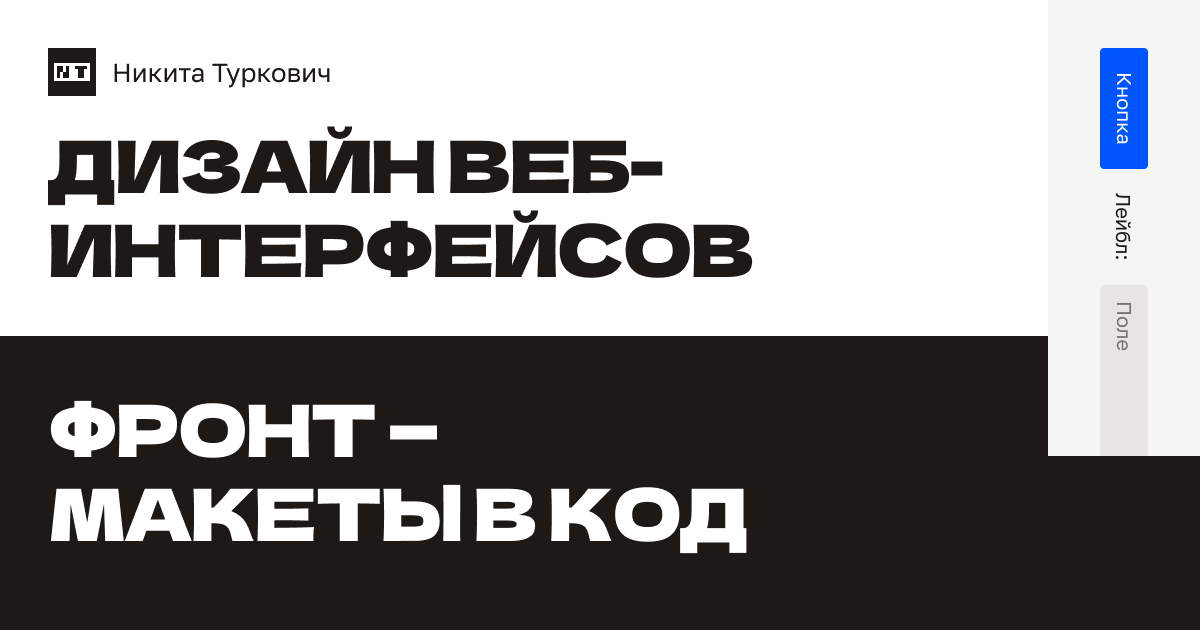
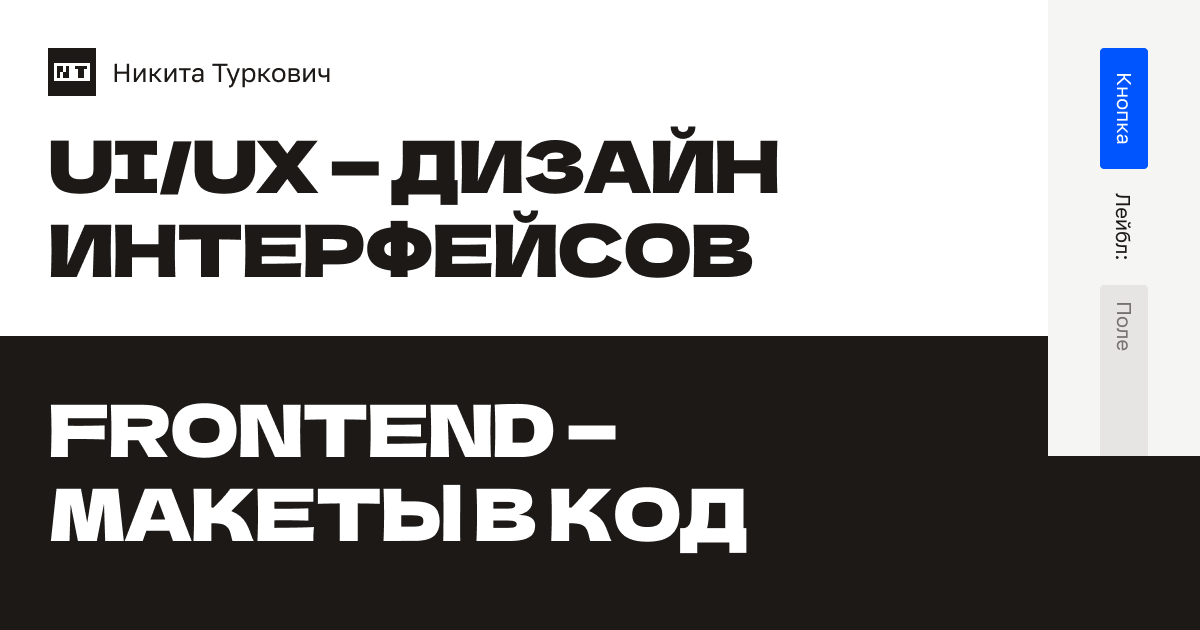
Auto-generated commit

Changed region(s): [[0.0308, 0.181, 0.6475, 0.3317], [0.0308, 0.6333, 0.5242, 0.7238]]

diff --git a/main-I3H5BV4K.js b/main-I3H5BV4K.js
@@ -11,4 +11,4 @@ ${n.map((r,o)=>`${o+1}) ${r.toString()}`).join(`
 `],encapsulation:2,changeDetection:1})};function dD(e,t){if(e&1&&(S(0,"label",3),R(1),C()),e&2){let n=sn();se(),Ke(n.label())}}var Ts=class e{label=q();checked=q();static \u0275fac=function(n){return new(n||e)};static \u0275cmp=V({type:e,selectors:[["nt-radiobuton"]],hostAttrs:[1,"radio"],inputs:{label:[1,"label"],checked:[1,"checked"]},decls:4,vars:2,consts:[["type","radio","id","radio",1,"radio__control",3,"checked"],["width","24","height","24","viewBox","0 0 24 24","fill","none","xmlns","http://www.w3.org/2000/svg",1,"radio__icon"],["cx","12","cy","12","r","4"],["ntLabel","","for","radio",1,"radio__label"]],template:function(n,r){n&1&&($(0,"input",0),Ze(),S(1,"svg",1),$(2,"circle",2),C(),rn(3,dD,2,1,"label",3)),n&2&&(Ae("checked",r.checked()),se(3),on(r.label()?3:-1))},dependencies:[Le],styles:[`.radio{display:inline-flex;gap:.5rem;cursor:pointer}.radio__control{appearance:none;display:inline-flex;width:1.5rem;height:1.5rem;background-color:var(--%NS%color-switch-bg-default);margin:0;border:none;border-radius:100%;transition:.2s ease-in-out;cursor:pointer}.radio__control:hover{box-shadow:0 2px 0 inset var(--%NS%color-switch-shadow-default)}.radio__control:checked{background-color:var(--%NS%color-switch-bg-checked-default)}.radio__control:checked:hover{background-color:var(--%NS%color-switch-bg-checked-hover);box-shadow:0 2px 0 inset var(--%NS%color-switch-shadow-checked)}.radio__control:checked~.radio__icon{opacity:100%;fill:var(--%NS%color-switch-icon-checked)}.radio__icon{position:absolute;opacity:0;pointer-events:none}.radio__label{cursor:pointer}
 `],encapsulation:2,changeDetection:1})};var fD=["*"],_s=class e{static \u0275fac=function(n){return new(n||e)};static \u0275cmp=V({type:e,selectors:[["nt-tabs"]],hostAttrs:[1,"tabs"],ngContentSelectors:fD,decls:1,vars:0,template:function(n,r){n&1&&(Se(),Ce(0))},styles:[`.tabs{display:inline-flex;gap:.25rem;background-color:var(--%NS%color-tabs-bg);border-radius:.5rem;padding:.25rem}.tab{position:relative;display:inline-flex}.tab__control{appearance:none;position:absolute;width:100%;height:100%;margin:0;border-radius:.25rem;transition:.2s ease-in-out}.tab__control:hover:not(:checked){background-color:var(--%NS%color-tab-bg-hover);box-shadow:0 2px 0 var(--%NS%color-tab-shadow-selected)}.tab__control:checked{background-color:var(--%NS%color-tab-bg-selected)}.tab__control:active:not(:checked){transform:scale(.96)}.tab__label{position:relative;padding:.4375rem 1rem .5625rem;z-index:1;cursor:pointer}
 `],encapsulation:2,changeDetection:1})};var Ms=class e{label=q.required();tabId=q.required();name=q.required();checked=q();static \u0275fac=function(n){return new(n||e)};static \u0275cmp=V({type:e,selectors:[["nt-tab"]],hostAttrs:[1,"tab"],inputs:{label:[1,"label"],tabId:[1,"tabId"],name:[1,"name"],checked:[1,"checked"]},decls:3,vars:5,consts:[["type","radio",1,"tab__control",3,"name","id","checked"],["ntLabel","",1,"tab__label"]],template:function(n,r){n&1&&($(0,"input",0),S(1,"label",1),R(2),C()),n&2&&(Ae("name",r.name())("id",r.tabId())("checked",r.checked()),se(),Fi("for",r.tabId()),se(),Ke(r.label()))},dependencies:[Le],styles:[`.tabs{display:inline-flex;gap:.25rem;background-color:var(--%NS%color-tabs-bg);border-radius:.5rem;padding:.25rem}.tab{position:relative;display:inline-flex}.tab__control{appearance:none;position:absolute;width:100%;height:100%;margin:0;border-radius:.25rem;transition:.2s ease-in-out}.tab__control:hover:not(:checked){background-color:var(--%NS%color-tab-bg-hover);box-shadow:0 2px 0 var(--%NS%color-tab-shadow-selected)}.tab__control:checked{background-color:var(--%NS%color-tab-bg-selected)}.tab__control:active:not(:checked){transform:scale(.96)}.tab__label{position:relative;padding:.4375rem 1rem .5625rem;z-index:1;cursor:pointer}
-`],encapsulation:2,changeDetection:1})};var Ns=class e{static \u0275fac=function(n){return new(n||e)};static \u0275cmp=V({type:e,selectors:[["app-root"]],decls:87,vars:3,consts:[[1,"layout","layout_design"],[1,"header"],[1,"logo"],["src","/logo.svg","alt","\u0422\u0443\u0440\u043A\u043E\u0432\u0438\u0447 \u041D\u0438\u043A\u0438\u0442\u0430"],[1,"decor"],[1,"hero"],[1,"title"],[1,"description"],[1,"tags-list"],["theme","design"],[1,"footer"],[1,"footer__contacts"],["ntLink","","target","_blank","href","https://t.me/nikita_turkovich","rel","noopener"],["ntLink","","target","_blank","href","https://mailto:nikita.turkovich@ya.ru","rel","noopener"],[1,"footer__status"],[1,"bage","bage_open"],[1,"design-system"],[1,"design-system__container"],[1,"design-system__components"],["type","button","ntButton","","priority","primary"],["ntLabel","","for","field-0"],["type","text","ntInput","","placeholder","\u041F\u043E\u043B\u0435","id","field-0"],["type","button","ntButton","","icon","","priority","secondary"],["width","24","height","24","viewBox","0 0 24 24","fill","none","xmlns","http://www.w3.org/2000/svg"],["d","M22 9.03419C21.9999 7.27787 21.4037 6.05068 20.585 5.25587C19.7534 4.44871 18.6286 4.02556 17.4814 4.00392C16.3323 3.9823 15.2104 4.3652 14.3867 5.10451C13.5797 5.82902 13.0001 6.94741 13 8.53419H11C10.9999 6.94491 10.4202 5.82533 9.61328 5.1006C8.78986 4.36117 7.66835 3.97901 6.51953 4.00099C5.37242 4.02302 4.24683 4.4469 3.41504 5.2549C2.5962 6.05045 2.00007 7.27804 2 9.03419C2 10.2418 2.56169 11.603 3.54297 13.0303C4.51406 14.4428 5.82814 15.8225 7.17285 17.0449C8.51295 18.2632 9.85741 19.3023 10.8691 20.0381C11.3258 20.3702 11.7138 20.6385 12 20.833C12.2862 20.6385 12.6742 20.3702 13.1309 20.0381C14.1426 19.3023 15.4871 18.2632 16.8271 17.0449C18.1719 15.8225 19.4859 14.4428 20.457 13.0303C21.4383 11.603 22 10.2418 22 9.03419ZM24 9.03419C24 10.8264 23.1865 12.5905 22.1055 14.1631C21.0141 15.7506 19.5781 17.2469 18.1729 18.5244C16.7632 19.806 15.3573 20.8912 14.3066 21.6553C13.7805 22.038 13.3413 22.342 13.0322 22.5508C12.8777 22.6552 12.7552 22.7358 12.6709 22.791C12.6288 22.8186 12.5958 22.8399 12.5732 22.8545C12.5623 22.8615 12.5539 22.8672 12.5479 22.8711C12.5448 22.8731 12.5418 22.8749 12.54 22.876L12.5381 22.877L12.5371 22.8779L12 23.2197L11.4629 22.8779C11.4624 22.8776 11.4608 22.8765 11.46 22.876C11.4582 22.8749 11.4552 22.8731 11.4521 22.8711C11.4461 22.8672 11.4377 22.8615 11.4268 22.8545C11.4042 22.8399 11.3712 22.8186 11.3291 22.791C11.2448 22.7358 11.1223 22.6552 10.9678 22.5508C10.6587 22.342 10.2195 22.038 9.69336 21.6553C8.64269 20.8912 7.23683 19.806 5.82715 18.5244C4.4219 17.2469 2.98591 15.7506 1.89453 14.1631C0.813462 12.5905 0 10.8264 0 9.03419C7.16977e-05 6.79084 0.77904 5.02818 2.02246 3.82033C3.25306 2.62506 4.87779 2.03184 6.48047 2.00099C8.0815 1.97025 9.71023 2.49975 10.9492 3.61232C11.3503 3.97252 11.7038 4.38895 12 4.85744C12.296 4.39001 12.6502 3.97478 13.0508 3.61525C14.2895 2.50345 15.9178 1.97484 17.5186 2.0049C19.1213 2.03505 20.7467 2.62649 21.9775 3.8213C23.2212 5.02857 23.9999 6.79083 24 9.03419Z"],["label","\u0427\u0435\u043A\u0431\u043E\u043A\u0441",3,"checked"],["tabId","tab-1","name","group-1","label","\u0412\u043A\u043B\u0430\u0434\u043A\u0430",3,"checked"],["tabId","tab-2","name","group-1","label","\u0412\u043A\u043B\u0430\u0434\u043A\u0430"],["label","\u0420\u0430\u0434\u0438\u043E\u043A\u043D\u043E\u043F\u043A\u0430",3,"checked"],[1,"layout","layout_development"],["theme","code"],[1,"footer__source"],["ntLink","","target","_blank","href","https://github.com/turkovich/turkovich.github.io","rel","noopener"]],template:function(n,r){n&1&&(S(0,"div",0)(1,"header",1)(2,"div",2),$(3,"img",3),R(4," \u041D\u0438\u043A\u0438\u0442\u0430 \u0422\u0443\u0440\u043A\u043E\u0432\u0438\u0447 "),C()(),$(5,"div",4),S(6,"div",5)(7,"h1",6),R(8,"\u0414\u0438\u0437\u0430\u0439\u043D \u0432\u0435\u0431-\u0438\u043D\u0442\u0435\u0440\u0444\u0435\u0439\u0441\u043E\u0432"),C()(),S(9,"div",7)(10,"ul",8)(11,"li")(12,"nt-tag",9),R(13,"20 \u043B\u0435\u0442 \u0432 \u043E\u0442\u0440\u0430\u0441\u043B\u0438"),C()(),S(14,"li")(15,"nt-tag",9),R(16,"B2B/B2C"),C()(),S(17,"li")(18,"nt-tag",9),R(19,"SaaS"),C()(),S(20,"li")(21,"nt-tag",9),R(22,"Web"),C()()(),S(23,"p"),R(24," \u041F\u0440\u043E\u0435\u043A\u0442\u0438\u0440\u0443\u044E \u0438\u043D\u0442\u0435\u0440\u0444\u0435\u0439\u0441\u044B \u0438 \u0434\u0438\u0437\u0430\u0439\u043D-\u0441\u0438\u0441\u0442\u0435\u043C\u044B, \u0437\u0430\u0434\u0430\u044E \u0432\u0438\u0437\u0443\u0430\u043B\u044C\u043D\u044B\u0439 \u0441\u0442\u0438\u043B\u044C, \u043F\u043E\u0434\u0431\u0438\u0440\u0430\u044E \u043F\u0430\u0442\u0442\u0435\u0440\u043D\u044B \u0432\u0437\u0430\u0438\u043C\u043E\u0434\u0435\u0439\u0441\u0442\u0432\u0438\u044F, \u0441\u043E\u0437\u0434\u0430\u044E \u043A\u0430\u0441\u0442\u043E\u043C\u043D\u0443\u044E \u0438\u043A\u043E\u043D\u043E\u0433\u0440\u0430\u0444\u0438\u043A\u0443. "),C()(),S(25,"footer",10)(26,"ul",11)(27,"li")(28,"a",12),R(29,"t.me/nikita_turkovich"),C()(),S(30,"li")(31,"a",13),R(32,"nikita.turkovich@ya.ru"),C()()(),S(33,"div",14),$(34,"i",15),R(35," \u0420\u0430\u0441\u0441\u043C\u0430\u0442\u0440\u0438\u0432\u0430\u044E \u043F\u0440\u0435\u0434\u043B\u043E\u0436\u0435\u043D\u0438\u044F "),C()(),S(36,"div",16)(37,"div",17)(38,"div",18)(39,"button",19),R(40,"\u041A\u043D\u043E\u043F\u043A\u0430"),C(),S(41,"label",20),R(42,"\u041B\u0435\u0439\u0431\u043B:"),C(),$(43,"input",21),S(44,"button",22),Ze(),S(45,"svg",23),$(46,"path",24),C()(),li(),$(47,"nt-switch")(48,"nt-checkbox",25),S(49,"nt-tabs"),$(50,"nt-tab",26)(51,"nt-tab",27),C(),$(52,"nt-radiobuton",28),C()()()(),S(53,"div",29)(54,"div",7)(55,"ul",8)(56,"li")(57,"nt-tag",30),R(58,"Design tokens"),C()(),S(59,"li")(60,"nt-tag",30),R(61,"SCSS"),C()(),S(62,"li")(63,"nt-tag",30),R(64,"BEM"),C()(),S(65,"li")(66,"nt-tag",30),R(67,"Responsive"),C()(),S(68,"li")(69,"nt-tag",30),R(70,"Angular-components"),C()(),S(71,"li")(72,"nt-tag",30),R(73,"Prime NG"),C()()(),S(74,"p"),R(75," \u041F\u0435\u0440\u0435\u043D\u043E\u0448\u0443 \u043C\u0430\u043A\u0435\u0442\u044B \u0432 \u043A\u043E\u0434. \u0421\u043E\u0437\u0434\u0430\u044E \u0438 \u0434\u043E\u0440\u0430\u0431\u0430\u0442\u044B\u0432\u0430\u044E Angular-\u043A\u043E\u043C\u043F\u043E\u043D\u0435\u043D\u0442\u044B \u043F\u043E\u0434 \u0435\u0434\u0438\u043D\u0443\u044E \u0434\u0438\u0437\u0430\u0439\u043D-\u0441\u0438\u0441\u0442\u0435\u043C\u0443. "),C()(),S(76,"div",5)(77,"h1",6),R(78,"\u0424\u0440\u043E\u043D\u0442 \u2014 \u041C\u0430\u043A\u0435\u0442\u044B\xA0\u0432\xA0\u043A\u043E\u0434"),C()(),S(79,"footer",10)(80,"div",31)(81,"a",32),R(82,"turkovich.github.io"),C()(),S(83,"div",14),R(84," 2026 \u2014 \u043F\u0440\u043E\u0434\u043E\u043B\u0436\u0435\u043D\u0438\u0435\xA0\u0441\u043B\u0435\u0434\u0443\u0435\u0442... "),C()(),$(85,"div",4),C(),$(86,"router-outlet")),n&2&&(se(48),Ae("checked",!0),se(2),Ae("checked",!0),se(2),Ae("checked",!0))},dependencies:[uo,ws,Ds,Le,bs,Ss,Cs,Ts,_s,Is,Ms],encapsulation:2,changeDetection:1})};hl(Ns,Uh).catch(e=>console.error(e));
+`],encapsulation:2,changeDetection:1})};var Ns=class e{static \u0275fac=function(n){return new(n||e)};static \u0275cmp=V({type:e,selectors:[["app-root"]],decls:87,vars:3,consts:[[1,"layout","layout_design"],[1,"header"],[1,"logo"],["src","/logo.svg","alt","\u0422\u0443\u0440\u043A\u043E\u0432\u0438\u0447 \u041D\u0438\u043A\u0438\u0442\u0430"],[1,"decor"],[1,"hero"],[1,"title"],[1,"description"],[1,"tags-list"],["theme","design"],[1,"footer"],[1,"footer__contacts"],["ntLink","","target","_blank","href","https://t.me/nikita_turkovich","rel","noopener"],["ntLink","","target","_blank","href","https://mailto:nikita.turkovich@ya.ru","rel","noopener"],[1,"footer__status"],[1,"bage","bage_open"],[1,"design-system"],[1,"design-system__container"],[1,"design-system__components"],["type","button","ntButton","","priority","primary"],["ntLabel","","for","field-0"],["type","text","ntInput","","placeholder","\u041F\u043E\u043B\u0435","id","field-0"],["type","button","ntButton","","icon","","priority","secondary"],["width","24","height","24","viewBox","0 0 24 24","fill","none","xmlns","http://www.w3.org/2000/svg"],["d","M22 9.03419C21.9999 7.27787 21.4037 6.05068 20.585 5.25587C19.7534 4.44871 18.6286 4.02556 17.4814 4.00392C16.3323 3.9823 15.2104 4.3652 14.3867 5.10451C13.5797 5.82902 13.0001 6.94741 13 8.53419H11C10.9999 6.94491 10.4202 5.82533 9.61328 5.1006C8.78986 4.36117 7.66835 3.97901 6.51953 4.00099C5.37242 4.02302 4.24683 4.4469 3.41504 5.2549C2.5962 6.05045 2.00007 7.27804 2 9.03419C2 10.2418 2.56169 11.603 3.54297 13.0303C4.51406 14.4428 5.82814 15.8225 7.17285 17.0449C8.51295 18.2632 9.85741 19.3023 10.8691 20.0381C11.3258 20.3702 11.7138 20.6385 12 20.833C12.2862 20.6385 12.6742 20.3702 13.1309 20.0381C14.1426 19.3023 15.4871 18.2632 16.8271 17.0449C18.1719 15.8225 19.4859 14.4428 20.457 13.0303C21.4383 11.603 22 10.2418 22 9.03419ZM24 9.03419C24 10.8264 23.1865 12.5905 22.1055 14.1631C21.0141 15.7506 19.5781 17.2469 18.1729 18.5244C16.7632 19.806 15.3573 20.8912 14.3066 21.6553C13.7805 22.038 13.3413 22.342 13.0322 22.5508C12.8777 22.6552 12.7552 22.7358 12.6709 22.791C12.6288 22.8186 12.5958 22.8399 12.5732 22.8545C12.5623 22.8615 12.5539 22.8672 12.5479 22.8711C12.5448 22.8731 12.5418 22.8749 12.54 22.876L12.5381 22.877L12.5371 22.8779L12 23.2197L11.4629 22.8779C11.4624 22.8776 11.4608 22.8765 11.46 22.876C11.4582 22.8749 11.4552 22.8731 11.4521 22.8711C11.4461 22.8672 11.4377 22.8615 11.4268 22.8545C11.4042 22.8399 11.3712 22.8186 11.3291 22.791C11.2448 22.7358 11.1223 22.6552 10.9678 22.5508C10.6587 22.342 10.2195 22.038 9.69336 21.6553C8.64269 20.8912 7.23683 19.806 5.82715 18.5244C4.4219 17.2469 2.98591 15.7506 1.89453 14.1631C0.813462 12.5905 0 10.8264 0 9.03419C7.16977e-05 6.79084 0.77904 5.02818 2.02246 3.82033C3.25306 2.62506 4.87779 2.03184 6.48047 2.00099C8.0815 1.97025 9.71023 2.49975 10.9492 3.61232C11.3503 3.97252 11.7038 4.38895 12 4.85744C12.296 4.39001 12.6502 3.97478 13.0508 3.61525C14.2895 2.50345 15.9178 1.97484 17.5186 2.0049C19.1213 2.03505 20.7467 2.62649 21.9775 3.8213C23.2212 5.02857 23.9999 6.79083 24 9.03419Z"],["label","\u0427\u0435\u043A\u0431\u043E\u043A\u0441",3,"checked"],["tabId","tab-1","name","group-1","label","\u0412\u043A\u043B\u0430\u0434\u043A\u0430",3,"checked"],["tabId","tab-2","name","group-1","label","\u0412\u043A\u043B\u0430\u0434\u043A\u0430"],["label","\u0420\u0430\u0434\u0438\u043E\u043A\u043D\u043E\u043F\u043A\u0430",3,"checked"],[1,"layout","layout_development"],["theme","code"],[1,"footer__source"],["ntLink","","target","_blank","href","https://github.com/turkovich/turkovich.github.io","rel","noopener"]],template:function(n,r){n&1&&(S(0,"div",0)(1,"header",1)(2,"div",2),$(3,"img",3),R(4," \u041D\u0438\u043A\u0438\u0442\u0430 \u0422\u0443\u0440\u043A\u043E\u0432\u0438\u0447 "),C()(),$(5,"div",4),S(6,"div",5)(7,"h1",6),R(8,"UI/UX \u2014 \u0434\u0438\u0437\u0430\u0439\u043D \u0438\u043D\u0442\u0435\u0440\u0444\u0435\u0439\u0441\u043E\u0432"),C()(),S(9,"div",7)(10,"ul",8)(11,"li")(12,"nt-tag",9),R(13,"20 \u043B\u0435\u0442 \u0432 \u043E\u0442\u0440\u0430\u0441\u043B\u0438"),C()(),S(14,"li")(15,"nt-tag",9),R(16,"B2B/B2C"),C()(),S(17,"li")(18,"nt-tag",9),R(19,"SaaS"),C()(),S(20,"li")(21,"nt-tag",9),R(22,"Web"),C()()(),S(23,"p"),R(24," \u041F\u0440\u043E\u0435\u043A\u0442\u0438\u0440\u0443\u044E \u0438\u043D\u0442\u0435\u0440\u0444\u0435\u0439\u0441\u044B \u0438 \u0434\u0438\u0437\u0430\u0439\u043D-\u0441\u0438\u0441\u0442\u0435\u043C\u044B, \u0437\u0430\u0434\u0430\u044E \u0432\u0438\u0437\u0443\u0430\u043B\u044C\u043D\u044B\u0439 \u0441\u0442\u0438\u043B\u044C, \u043F\u043E\u0434\u0431\u0438\u0440\u0430\u044E \u043F\u0430\u0442\u0442\u0435\u0440\u043D\u044B \u0432\u0437\u0430\u0438\u043C\u043E\u0434\u0435\u0439\u0441\u0442\u0432\u0438\u044F, \u0441\u043E\u0437\u0434\u0430\u044E \u043A\u0430\u0441\u0442\u043E\u043C\u043D\u0443\u044E \u0438\u043A\u043E\u043D\u043E\u0433\u0440\u0430\u0444\u0438\u043A\u0443. "),C()(),S(25,"footer",10)(26,"ul",11)(27,"li")(28,"a",12),R(29,"t.me/nikita_turkovich"),C()(),S(30,"li")(31,"a",13),R(32,"nikita.turkovich@ya.ru"),C()()(),S(33,"div",14),$(34,"i",15),R(35," \u0420\u0430\u0441\u0441\u043C\u0430\u0442\u0440\u0438\u0432\u0430\u044E \u043F\u0440\u0435\u0434\u043B\u043E\u0436\u0435\u043D\u0438\u044F "),C()(),S(36,"div",16)(37,"div",17)(38,"div",18)(39,"button",19),R(40,"\u041A\u043D\u043E\u043F\u043A\u0430"),C(),S(41,"label",20),R(42,"\u041B\u0435\u0439\u0431\u043B:"),C(),$(43,"input",21),S(44,"button",22),Ze(),S(45,"svg",23),$(46,"path",24),C()(),li(),$(47,"nt-switch")(48,"nt-checkbox",25),S(49,"nt-tabs"),$(50,"nt-tab",26)(51,"nt-tab",27),C(),$(52,"nt-radiobuton",28),C()()()(),S(53,"div",29)(54,"div",7)(55,"ul",8)(56,"li")(57,"nt-tag",30),R(58,"Design tokens"),C()(),S(59,"li")(60,"nt-tag",30),R(61,"SCSS"),C()(),S(62,"li")(63,"nt-tag",30),R(64,"BEM"),C()(),S(65,"li")(66,"nt-tag",30),R(67,"Responsive"),C()(),S(68,"li")(69,"nt-tag",30),R(70,"Angular-components"),C()(),S(71,"li")(72,"nt-tag",30),R(73,"Prime NG"),C()()(),S(74,"p"),R(75," \u041F\u0435\u0440\u0435\u043D\u043E\u0448\u0443 \u043C\u0430\u043A\u0435\u0442\u044B \u0432 \u043A\u043E\u0434. \u0421\u043E\u0437\u0434\u0430\u044E \u0438 \u0434\u043E\u0440\u0430\u0431\u0430\u0442\u044B\u0432\u0430\u044E Angular-\u043A\u043E\u043C\u043F\u043E\u043D\u0435\u043D\u0442\u044B \u043F\u043E\u0434 \u0435\u0434\u0438\u043D\u0443\u044E \u0434\u0438\u0437\u0430\u0439\u043D-\u0441\u0438\u0441\u0442\u0435\u043C\u0443. "),C()(),S(76,"div",5)(77,"h1",6),R(78,"Frontend \u2014 \u043C\u0430\u043A\u0435\u0442\u044B \u0432\xA0\u043A\u043E\u0434"),C()(),S(79,"footer",10)(80,"div",31)(81,"a",32),R(82,"turkovich.github.io"),C()(),S(83,"div",14),R(84," 2026 \u2014 \u043F\u0440\u043E\u0434\u043E\u043B\u0436\u0435\u043D\u0438\u0435\xA0\u0441\u043B\u0435\u0434\u0443\u0435\u0442... "),C()(),$(85,"div",4),C(),$(86,"router-outlet")),n&2&&(se(48),Ae("checked",!0),se(2),Ae("checked",!0),se(2),Ae("checked",!0))},dependencies:[uo,ws,Ds,Le,bs,Ss,Cs,Ts,_s,Is,Ms],encapsulation:2,changeDetection:1})};hl(Ns,Uh).catch(e=>console.error(e));

diff --git a/styles-O56A5YJO.css b/styles-O56A5YJO.css
@@ -1,0 +1,1 @@
+:root{--color-text-primary: #1C1917;--color-text-primary-inverted: #FFF;--color-text-secondary: #75726F;--color-text-secondary-inverted: #A6A3A0;--color-design-bg: #FFF;--color-code-bg: #1C1917;--color-case-bg: #44413C;--color-design-system-bg: #F5F5F4;--color-bage-open: #0055FF;--color-bage-busy: #9D2500;--color-tag-bg-design: #E7E5E4;--color-tag-bg-code: #44413C;--color-link-default: #4D88FF;--color-link-hover: #FFF;--color-button-primary-bg-default: #0055FF;--color-button-primary-bg-hover: #0055FF;--color-button-primary-text: #FFF;--color-button-primary-shadow: #002266;--color-button-secondary-bg-default: #E7E5E4;--color-button-secondary-bg-hover: #E7E5E4;--color-button-secondary-text: #1C1917;--color-button-secondary-shadow: #A6A3A0;--color-input-text: #1C1917;--color-input-placeholder: #75726F;--color-input-bg: #E7E5E4;--color-input-shadow: #A6A3A0;--color-switch-bg-default: #E7E5E4;--color-switch-bg-checked-default: #0055FF;--color-switch-bg-checked-hover: #0055FF;--color-switch-shadow-default: #A6A3A0;--color-switch-shadow-checked: #002266;--color-switch-icon-checked: #FFF;--color-knob-bg: #FFF;--color-knob-shadow-default: #A6A3A0;--color-knob-shadow-checked: #002266;--color-tabs-bg: #E7E5E4;--color-tab-bg-hover: #F5F5F4;--color-tab-bg-selected: #FFF;--color-tab-shadow-selected: #A6A3A0}@font-face{font-family:Golos Text;font-display:block;src:url(/fonts/GolosText-Regular.woff2) format("woff2");font-weight:400;font-style:normal}@font-face{font-family:Golos Text;font-display:block;src:url(/fonts/GolosText-Medium.woff2) format("woff2");font-weight:500;font-style:normal}@font-face{font-family:Dela Gothic One;font-display:block;src:url(/fonts/DelaGothicOne-Regular.woff2) format("woff2");font-weight:400;font-style:normal}*,:before,:after{box-sizing:border-box}p,ul,li{margin:0;padding:0}ul{list-style:none}html,body{width:100%;height:100%}body{margin:0;min-width:360px}.layout{position:relative;min-height:1200px;display:grid;grid-template-columns:repeat(6,1fr);grid-template-rows:repeat(8,1fr);gap:3rem;padding:3rem}@media(max-width:768px){.layout{min-height:auto;display:flex;flex-direction:column;gap:1.5rem;padding:1.5rem}}.layout_design{background-color:var(--color-design-bg)}.layout_design .header{grid-column:span 3;align-items:center}@media(max-width:768px){.layout_design .header{margin-bottom:3rem}}.layout_design .hero{display:flex;align-items:center;grid-column:span 5;grid-row:2/span 3}.layout_design .description{grid-column:2/span 4;grid-row:5/span 2}@media(max-width:1024px){.layout_design .description{grid-column:1/span 5}}@media(max-width:768px){.layout_design .description{margin-bottom:3rem}}.layout_design .footer{margin:-3rem;padding:3rem;background-color:var(--color-code-bg)}@media(max-width:768px){.layout_design .footer{flex-direction:column-reverse;margin:0 0 -1.5rem -1.5rem;padding:1.5rem}}.layout_design .decor{grid-column:4/span 3;grid-row:1;background-color:var(--color-design-system-bg);margin:-3rem -3rem -3rem 0}@media(max-width:1024px){.layout_design .decor{display:none}}@media(max-width:768px){.layout_design .decor{display:block;position:absolute;right:0;top:0;width:1.5rem;height:7.5rem;margin:0}}.layout_development{background-color:var(--color-code-bg)}.layout_development .description{grid-column:2/6;grid-row:2/4;color:var(--color-text-primary-inverted)}@media(max-width:1024px){.layout_development .description{grid-column:1/span 5}}@media(max-width:768px){.layout_development .description{margin-top:3rem}}.layout_development .hero{display:flex;align-items:center;grid-column:1/6;grid-row:4/7;color:var(--color-text-primary-inverted)}@media(max-width:768px){.layout_development .hero{margin-bottom:3rem}}.layout_development .footer{padding-top:1.5rem}.layout_development .decor{grid-column:4/-1;grid-row:8/-1;background-color:var(--color-case-bg);margin:-3rem -3rem -3rem 0}@media(max-width:1024px){.layout_development .decor{grid-column:6;grid-row:8}}@media(max-width:768px){.layout_development .decor{display:block;position:absolute;right:0;bottom:0;width:1.5rem;height:7.5rem;margin:0}}.header{grid-column:span 5;grid-row:1;display:flex;align-items:start}@media(max-width:768px){.header{grid-column:1}}.header .logo{display:flex;column-gap:1rem;align-items:center;color:var(--color-title)}.footer{display:grid;position:relative;grid-column:1/span 3;grid-row:8;grid-template-columns:subgrid;gap:3rem;align-items:end;color:var(--color-text-secondary-inverted);font-size:1.25rem;line-height:1.5rem}@media(max-width:1024px){.footer{grid-column:1/span 5}}@media(max-width:768px){.footer{display:flex;flex-direction:column;gap:1.5rem;align-items:start;justify-content:end;grid-column:1;grid-row:7/-1}}.footer__contacts{position:relative;grid-column:1/span 1;grid-row:1;display:flex;flex-direction:column;gap:.5rem;z-index:2}@media(max-width:1024px){.footer__contacts{grid-column:1/span 2}}@media(max-width:768px){.footer__contacts{grid-column:auto}}.footer__status{position:relative;grid-column:2/span 2;grid-row:1;display:flex;align-items:start;gap:.5rem;z-index:2}@media(max-width:1024px){.footer__status{grid-column:3/span 3}}@media(max-width:768px){.footer__status{grid-column:auto}}.footer__source{position:relative;grid-column:1/span 1;grid-row:1;display:flex;z-index:2}@media(max-width:1024px){.footer__source{grid-column:1/span 2}}@media(max-width:768px){.footer__source{grid-column:auto}}.design-system{display:flex;grid-column:4/span 3;grid-row:8;margin-right:-3rem;margin-top:-3rem;margin-bottom:-3rem;background-color:var(--color-design-system-bg);overflow:hidden;z-index:2}@media(max-width:1024px){.design-system{margin:0;grid-column:6;grid-row:span 8;margin-right:-3rem;margin-top:-3rem;margin-bottom:-3rem}}@media(max-width:768px){.design-system{display:none}}.design-system__container{width:100%;align-self:center}@media(max-width:1024px){.design-system__container{transform:rotate(90deg)}}.design-system__components{display:inline-flex;align-items:center;gap:1.5rem;min-height:192px;padding-left:100%;animation:marquee 20s linear infinite}@media(max-width:1024px){.design-system__components{min-height:auto}}.design-system:hover .design-system__components{animation-play-state:paused}@keyframes marquee{0%{transform:translate(0)}to{transform:translate(-100%)}}body{color:var(--color-text-primary);font-family:Golos Text,sans-serif;font-size:1.625rem;line-height:2.25rem}@media(max-width:768px){body{font-size:1.25rem;line-height:1.5rem}}.title{font-family:Dela Gothic One,sans-serif;font-size:clamp(2rem,.2565789474rem + 6.9736842105vw,8.625rem);line-height:clamp(2.25rem,.0789473684rem + 8.6842105263vw,10.5rem);text-transform:uppercase;letter-spacing:-.125rem;font-weight:400;margin:0}@media(max-width:768px){.title{letter-spacing:0rem}}.bage{display:block;min-width:.75rem;min-height:.75rem;border-radius:.75rem;margin:.375rem 0}.bage_open{background-color:var(--color-bage-open)}.bage_busy{background-color:var(--color-bage-busy)}.tags-list{display:flex;flex-wrap:wrap;gap:.5rem;margin-bottom:1.5rem}

diff --git a/404.html b/404.html
@@ -2,17 +2,17 @@
 <html lang="ru" data-beasties-container>
 <head>
   <meta charset="utf-8">
-  <title>Никита Туркович  &mdash; дизайн веб-интерфейсов / фронт</title>
+  <title>Никита Туркович  &mdash; UI/UX &bull; Frontend</title>
   <base href="/">
   <meta name="viewport" content="width=device-width, initial-scale=1">
   <link rel="icon" type="image/svg+xml" href="/favicon.svg">
-  <meta property="og:title" content="Никита Туркович — дизайн веб-интерфейсов / фронт">
+  <meta property="og:title" content="Никита Туркович — UI/UX • Frontend">
   <meta property="og:description" content="Проектирую интерфейсы и дизайн-системы. Переношу макеты в код. Cоздаю и дорабатываю Angular-компоненты.">
   <meta property="og:image" content="https://turkovich.github.io/opengraph-image.png">
   <meta property="og:type" content="profile">
   <meta name="twitter:card" content="summary_large_image">
-<style>:root{--color-text-primary:#1C1917;--color-text-primary-inverted:#FFF;--color-text-secondary:#75726F;--color-text-secondary-inverted:#A6A3A0;--color-design-bg:#FFF;--color-code-bg:#1C1917;--color-case-bg:#44413C;--color-design-system-bg:#F5F5F4;--color-bage-open:#0055FF;--color-bage-busy:#9D2500;--color-tag-bg-design:#E7E5E4;--color-tag-bg-code:#44413C;--color-link-default:#4D88FF;--color-link-hover:#FFF;--color-button-primary-bg-default:#0055FF;--color-button-primary-bg-hover:#0055FF;--color-button-primary-text:#FFF;--color-button-primary-shadow:#002266;--color-button-secondary-bg-default:#E7E5E4;--color-button-secondary-bg-hover:#E7E5E4;--color-button-secondary-text:#1C1917;--color-button-secondary-shadow:#A6A3A0;--color-input-text:#1C1917;--color-input-placeholder:#75726F;--color-input-bg:#E7E5E4;--color-input-shadow:#A6A3A0;--color-switch-bg-default:#E7E5E4;--color-switch-bg-checked-default:#0055FF;--color-switch-bg-checked-hover:#0055FF;--color-switch-shadow-default:#A6A3A0;--color-switch-shadow-checked:#002266;--color-switch-icon-checked:#FFF;--color-knob-bg:#FFF;--color-knob-shadow-default:#A6A3A0;--color-knob-shadow-checked:#002266;--color-tabs-bg:#E7E5E4;--color-tab-bg-hover:#F5F5F4;--color-tab-bg-selected:#FFF;--color-tab-shadow-selected:#A6A3A0}@font-face{font-family:Golos Text;font-display:block;src:url(/fonts/GolosText-Regular.woff2) format("woff2");font-weight:400;font-style:normal}@font-face{font-family:Golos Text;font-display:block;src:url(/fonts/GolosText-Medium.woff2) format("woff2");font-weight:500;font-style:normal}*,:before,:after{box-sizing:border-box}html,body{width:100%;height:100%}body{margin:0;min-width:360px}body{color:var(--color-text-primary);font-family:Golos Text,sans-serif;font-size:1.625rem;line-height:2.25rem}@media(max-width:768px){body{font-size:1.25rem;line-height:1.5rem}}</style><link rel="stylesheet" href="styles-TXRS4NEN.css" media="print" onload="this.media='all'"><noscript><link rel="stylesheet" href="styles-TXRS4NEN.css"></noscript></head>
+<style>:root{--color-text-primary:#1C1917;--color-text-primary-inverted:#FFF;--color-text-secondary:#75726F;--color-text-secondary-inverted:#A6A3A0;--color-design-bg:#FFF;--color-code-bg:#1C1917;--color-case-bg:#44413C;--color-design-system-bg:#F5F5F4;--color-bage-open:#0055FF;--color-bage-busy:#9D2500;--color-tag-bg-design:#E7E5E4;--color-tag-bg-code:#44413C;--color-link-default:#4D88FF;--color-link-hover:#FFF;--color-button-primary-bg-default:#0055FF;--color-button-primary-bg-hover:#0055FF;--color-button-primary-text:#FFF;--color-button-primary-shadow:#002266;--color-button-secondary-bg-default:#E7E5E4;--color-button-secondary-bg-hover:#E7E5E4;--color-button-secondary-text:#1C1917;--color-button-secondary-shadow:#A6A3A0;--color-input-text:#1C1917;--color-input-placeholder:#75726F;--color-input-bg:#E7E5E4;--color-input-shadow:#A6A3A0;--color-switch-bg-default:#E7E5E4;--color-switch-bg-checked-default:#0055FF;--color-switch-bg-checked-hover:#0055FF;--color-switch-shadow-default:#A6A3A0;--color-switch-shadow-checked:#002266;--color-switch-icon-checked:#FFF;--color-knob-bg:#FFF;--color-knob-shadow-default:#A6A3A0;--color-knob-shadow-checked:#002266;--color-tabs-bg:#E7E5E4;--color-tab-bg-hover:#F5F5F4;--color-tab-bg-selected:#FFF;--color-tab-shadow-selected:#A6A3A0}@font-face{font-family:Golos Text;font-display:block;src:url(/fonts/GolosText-Regular.woff2) format("woff2");font-weight:400;font-style:normal}@font-face{font-family:Golos Text;font-display:block;src:url(/fonts/GolosText-Medium.woff2) format("woff2");font-weight:500;font-style:normal}*,:before,:after{box-sizing:border-box}html,body{width:100%;height:100%}body{margin:0;min-width:360px}body{color:var(--color-text-primary);font-family:Golos Text,sans-serif;font-size:1.625rem;line-height:2.25rem}@media(max-width:768px){body{font-size:1.25rem;line-height:1.5rem}}</style><link rel="stylesheet" href="styles-O56A5YJO.css" media="print" onload="this.media='all'"><noscript><link rel="stylesheet" href="styles-O56A5YJO.css"></noscript></head>
 <body>
   <app-root></app-root>
-<script src="main-WHFD56HA.js" type="module"></script></body>
+<script src="main-I3H5BV4K.js" type="module"></script></body>
 </html>

diff --git a/index.html b/index.html
@@ -2,17 +2,17 @@
 <html lang="ru" data-beasties-container>
 <head>
   <meta charset="utf-8">
-  <title>Никита Туркович  &mdash; дизайн веб-интерфейсов / фронт</title>
+  <title>Никита Туркович  &mdash; UI/UX &bull; Frontend</title>
   <base href="/">
   <meta name="viewport" content="width=device-width, initial-scale=1">
   <link rel="icon" type="image/svg+xml" href="/favicon.svg">
-  <meta property="og:title" content="Никита Туркович — дизайн веб-интерфейсов / фронт">
+  <meta property="og:title" content="Никита Туркович — UI/UX • Frontend">
   <meta property="og:description" content="Проектирую интерфейсы и дизайн-системы. Переношу макеты в код. Cоздаю и дорабатываю Angular-компоненты.">
   <meta property="og:image" content="https://turkovich.github.io/opengraph-image.png">
   <meta property="og:type" content="profile">
   <meta name="twitter:card" content="summary_large_image">
-<style>:root{--color-text-primary:#1C1917;--color-text-primary-inverted:#FFF;--color-text-secondary:#75726F;--color-text-secondary-inverted:#A6A3A0;--color-design-bg:#FFF;--color-code-bg:#1C1917;--color-case-bg:#44413C;--color-design-system-bg:#F5F5F4;--color-bage-open:#0055FF;--color-bage-busy:#9D2500;--color-tag-bg-design:#E7E5E4;--color-tag-bg-code:#44413C;--color-link-default:#4D88FF;--color-link-hover:#FFF;--color-button-primary-bg-default:#0055FF;--color-button-primary-bg-hover:#0055FF;--color-button-primary-text:#FFF;--color-button-primary-shadow:#002266;--color-button-secondary-bg-default:#E7E5E4;--color-button-secondary-bg-hover:#E7E5E4;--color-button-secondary-text:#1C1917;--color-button-secondary-shadow:#A6A3A0;--color-input-text:#1C1917;--color-input-placeholder:#75726F;--color-input-bg:#E7E5E4;--color-input-shadow:#A6A3A0;--color-switch-bg-default:#E7E5E4;--color-switch-bg-checked-default:#0055FF;--color-switch-bg-checked-hover:#0055FF;--color-switch-shadow-default:#A6A3A0;--color-switch-shadow-checked:#002266;--color-switch-icon-checked:#FFF;--color-knob-bg:#FFF;--color-knob-shadow-default:#A6A3A0;--color-knob-shadow-checked:#002266;--color-tabs-bg:#E7E5E4;--color-tab-bg-hover:#F5F5F4;--color-tab-bg-selected:#FFF;--color-tab-shadow-selected:#A6A3A0}@font-face{font-family:Golos Text;font-display:block;src:url(/fonts/GolosText-Regular.woff2) format("woff2");font-weight:400;font-style:normal}@font-face{font-family:Golos Text;font-display:block;src:url(/fonts/GolosText-Medium.woff2) format("woff2");font-weight:500;font-style:normal}*,:before,:after{box-sizing:border-box}html,body{width:100%;height:100%}body{margin:0;min-width:360px}body{color:var(--color-text-primary);font-family:Golos Text,sans-serif;font-size:1.625rem;line-height:2.25rem}@media(max-width:768px){body{font-size:1.25rem;line-height:1.5rem}}</style><link rel="stylesheet" href="styles-TXRS4NEN.css" media="print" onload="this.media='all'"><noscript><link rel="stylesheet" href="styles-TXRS4NEN.css"></noscript></head>
+<style>:root{--color-text-primary:#1C1917;--color-text-primary-inverted:#FFF;--color-text-secondary:#75726F;--color-text-secondary-inverted:#A6A3A0;--color-design-bg:#FFF;--color-code-bg:#1C1917;--color-case-bg:#44413C;--color-design-system-bg:#F5F5F4;--color-bage-open:#0055FF;--color-bage-busy:#9D2500;--color-tag-bg-design:#E7E5E4;--color-tag-bg-code:#44413C;--color-link-default:#4D88FF;--color-link-hover:#FFF;--color-button-primary-bg-default:#0055FF;--color-button-primary-bg-hover:#0055FF;--color-button-primary-text:#FFF;--color-button-primary-shadow:#002266;--color-button-secondary-bg-default:#E7E5E4;--color-button-secondary-bg-hover:#E7E5E4;--color-button-secondary-text:#1C1917;--color-button-secondary-shadow:#A6A3A0;--color-input-text:#1C1917;--color-input-placeholder:#75726F;--color-input-bg:#E7E5E4;--color-input-shadow:#A6A3A0;--color-switch-bg-default:#E7E5E4;--color-switch-bg-checked-default:#0055FF;--color-switch-bg-checked-hover:#0055FF;--color-switch-shadow-default:#A6A3A0;--color-switch-shadow-checked:#002266;--color-switch-icon-checked:#FFF;--color-knob-bg:#FFF;--color-knob-shadow-default:#A6A3A0;--color-knob-shadow-checked:#002266;--color-tabs-bg:#E7E5E4;--color-tab-bg-hover:#F5F5F4;--color-tab-bg-selected:#FFF;--color-tab-shadow-selected:#A6A3A0}@font-face{font-family:Golos Text;font-display:block;src:url(/fonts/GolosText-Regular.woff2) format("woff2");font-weight:400;font-style:normal}@font-face{font-family:Golos Text;font-display:block;src:url(/fonts/GolosText-Medium.woff2) format("woff2");font-weight:500;font-style:normal}*,:before,:after{box-sizing:border-box}html,body{width:100%;height:100%}body{margin:0;min-width:360px}body{color:var(--color-text-primary);font-family:Golos Text,sans-serif;font-size:1.625rem;line-height:2.25rem}@media(max-width:768px){body{font-size:1.25rem;line-height:1.5rem}}</style><link rel="stylesheet" href="styles-O56A5YJO.css" media="print" onload="this.media='all'"><noscript><link rel="stylesheet" href="styles-O56A5YJO.css"></noscript></head>
 <body>
   <app-root></app-root>
-<script src="main-WHFD56HA.js" type="module"></script></body>
+<script src="main-I3H5BV4K.js" type="module"></script></body>
 </html>
